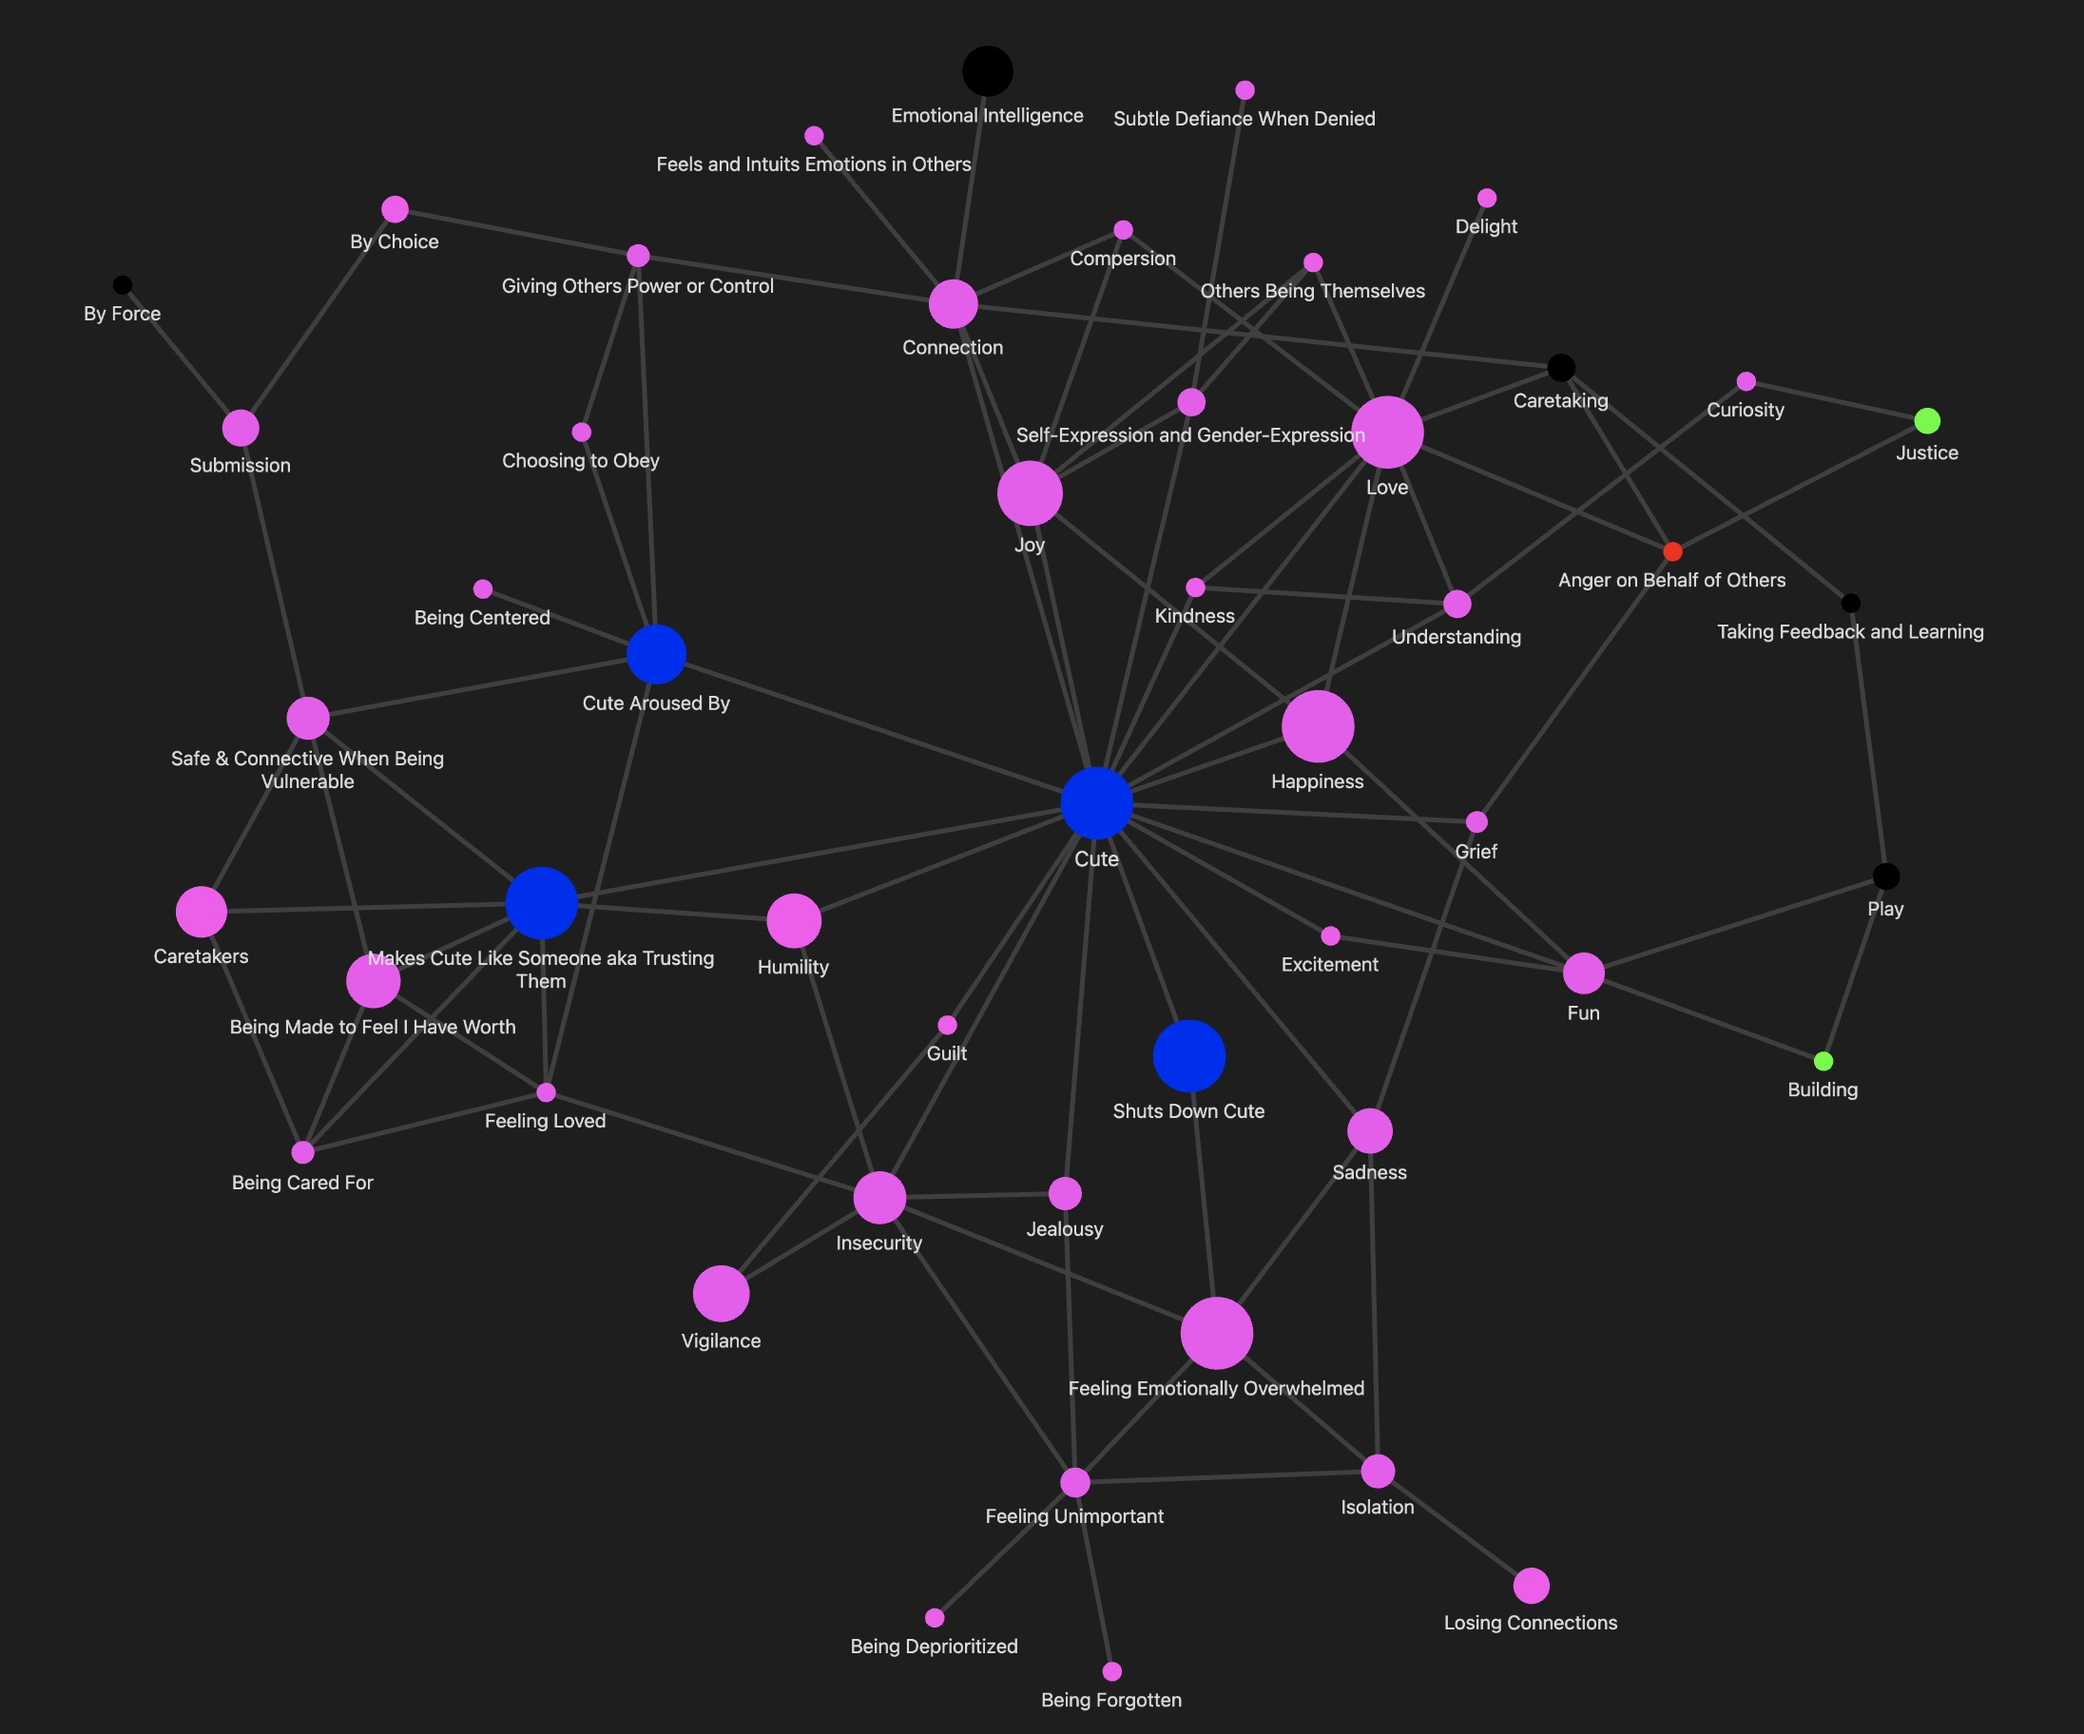
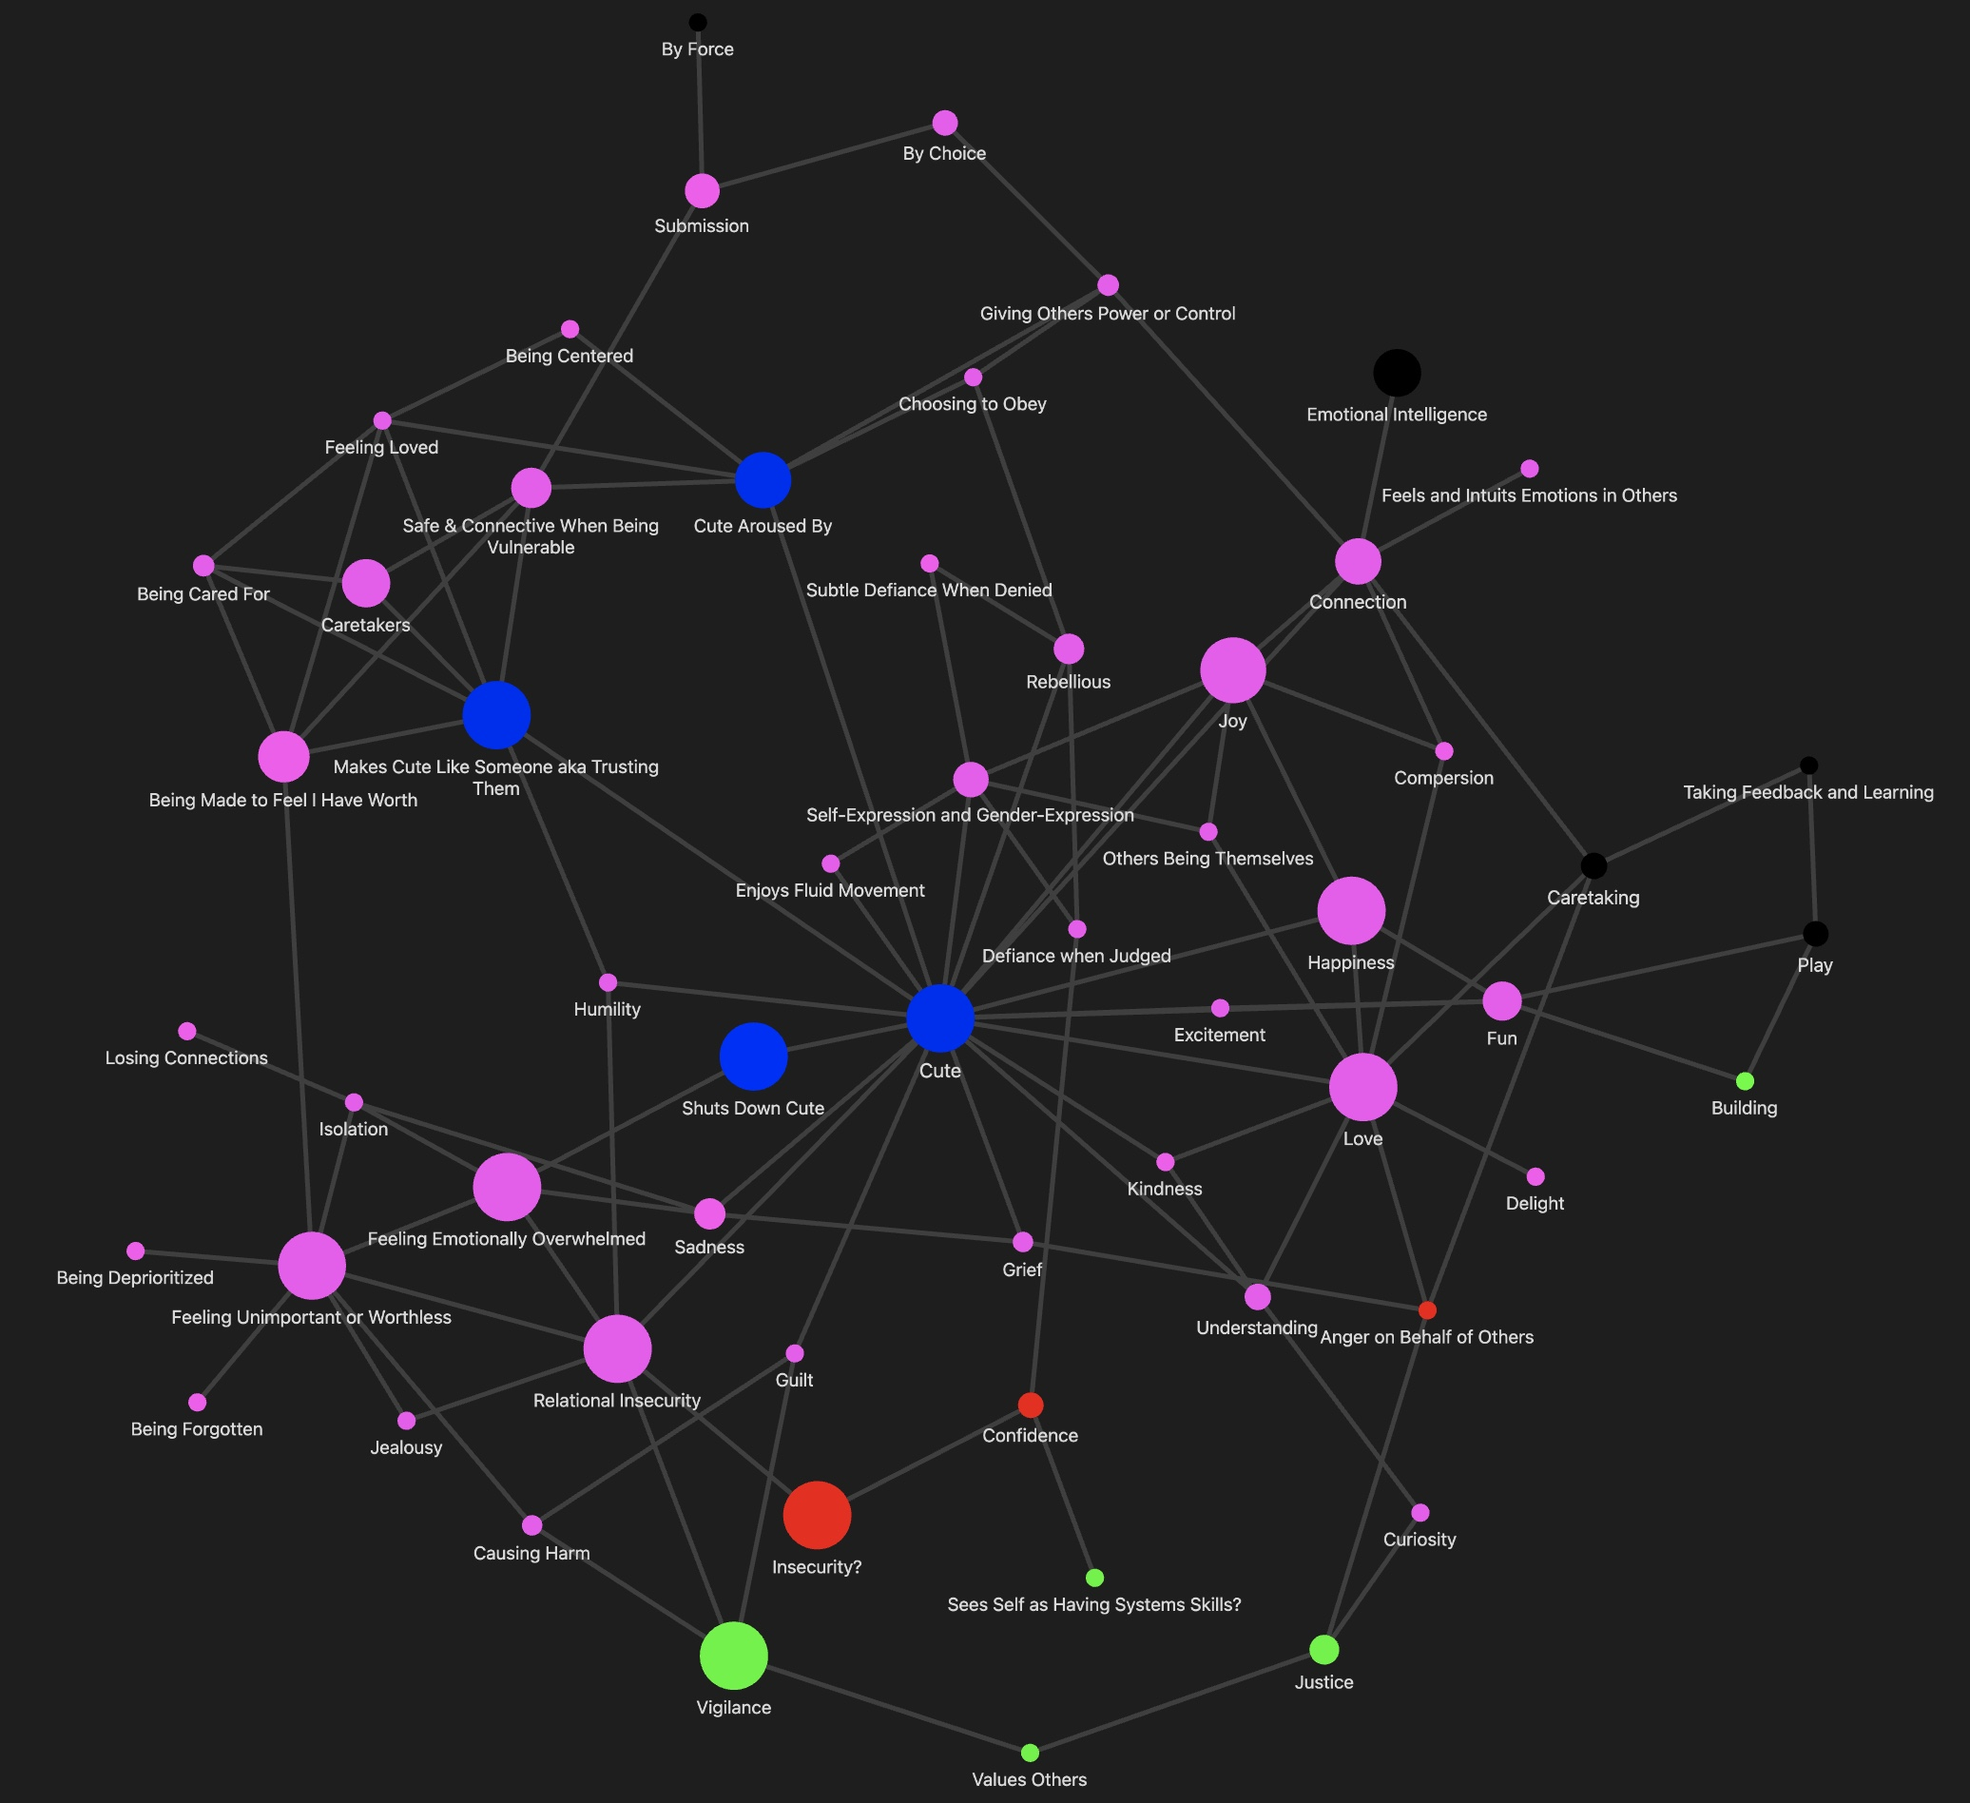
Add files via upload
Updated graphs and added patch note section

diff --git a/index.html b/index.html
@@ -5,6 +5,7 @@
 body {
 	background-color:black;
 	color:white;
+	text-align:center;
 }
 div.gallery {
   border: 1px solid #ccc;
@@ -22,6 +23,12 @@ div.gallery img {
 div.desc {
   padding: 15px;
   text-align: center;
+}
+
+div.patch {
+  display: block;
+  float: center;
+  text-align: left;
 }
 
 * {
@@ -46,11 +53,12 @@ div.desc {
 
 
 <h2>Graphs!</h2>
-<h4>Updated 1/23/26<h4>
+<h4>Updated 2/7/26<h4>
+<h5>Added Patch Notes Below</h5>
 
 <div class="responsive">
   <div class="gallery">
-    <a href="all.JPG">
+    <a target="_blank" href="all.JPG">
       <img src="all.JPG" alt="Everything Together" width="600" height="400">
     </a>
     <div class="desc">Everyone Together</div>
@@ -95,6 +103,28 @@ div.desc {
 </div>
 
 <div class="clearfix"></div>
+<div>
+	<h2>Vague and Non-Comprehensive Patch Notes</h2>
+</div>
+<div class="patch">
+	<ul><h3>2/7/26</h3>
+		<li>Added insecurities of various varieties to each gender, which gives some missing dimensions to their motivations
+		<ul><li>Added insecurity parent node into Tough. I'm unsure about this placement, as I am unsure if anyone owns the overall insecurity—I wanted to tie them all together. I may remove it</li>
+		<li>Added Elegant's desire to feel seen and understood, and various ways she wants to. Elegant now feels more in line with Everyone Else but still in need of another pass</li>
+		<li>Added Hot's insecurity around the opinions of others and her desire to be liked</li>
+		<li>Refined Cute's insecurity to relational insecurity</li>
+		<li>Tough's experience of insecurity needs more work, as insecurity does feel motivating to her but what flavor of insecurity she experiences is unclear currently</li>
+		</ul></li>
+		<li>Added Cute's rebelliousness and her indifference to the judgement of others. Looking for a better way to phrase this since she likes being liked but doesn't care or is defiant in the face of dislike or disapproval</li>
+		<li>Swapped vigilance back to Elegant from Cute, feels better as (partially) a way for Elegant (or the system?) to protect Cute from feeling bad and separately as a way to consider others</li>
+		<li>Slightly updated and added to Pretty</li><ul>
+		<li>Labeled more nodes as also Pretty's. Currently, I do not post her graph so one cannot see this</li></ul>
+		<li>Removed some question marks</li>
+		
+	</ul>
+
+</div>
+
 
 </body>
 </html>
